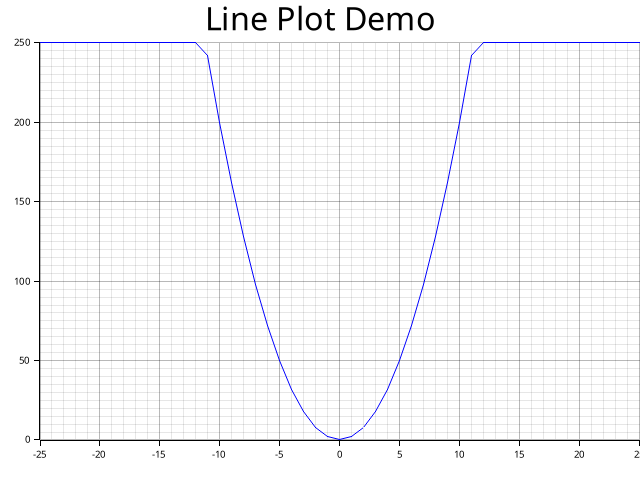
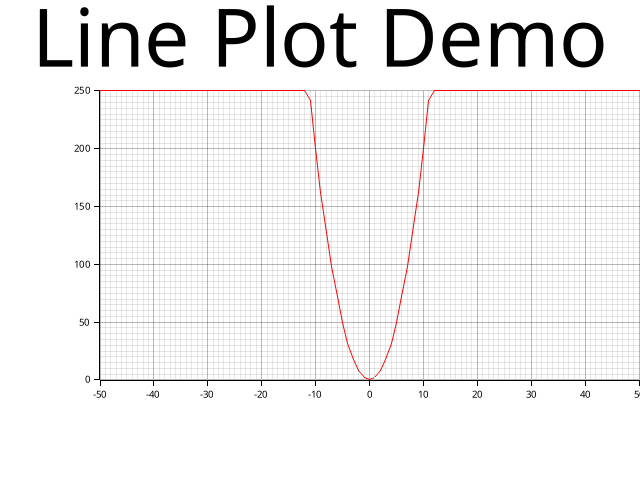
plotter return

Changed region(s): [[0.0312, 0.0, 1.0, 0.9688]]

diff --git a/projects/plotters/src/main.rs b/projects/plotters/src/main.rs
@@ -1,45 +1,18 @@
-use eframe::egui;
-//use plotters::prelude::*;
+use plotters::prelude::*;
 
-fn main() -> eframe::Result<()> {
-    eframe::run_native(
-        "plotters",
-        eframe::NativeOptions::default(),
-        Box::new(|cc| Box::new(PlottersApp::new(cc))),
-    )
-
-    /*
-    let root_area = BitMapBackend::new("./images/LinePlotDemo.png", (640, 480))
-      .into_drawing_area();
+fn main() {
+    let root_area = BitMapBackend::new("./images/LinePlotDemo.png", (640, 480)).into_drawing_area();
     root_area.fill(&WHITE).unwrap();
 
     let mut ctx = ChartBuilder::on(&root_area)
-      .set_label_area_size(LabelAreaPosition::Left, 40)
-      .set_label_area_size(LabelAreaPosition::Bottom, 40)
-      .caption("Line Plot Demo", ("sans-serif", 40))
-      .build_cartesian_2d(-25..25, 0..250)
-      .unwrap();
+        .set_label_area_size(LabelAreaPosition::Left, 100)
+        .set_label_area_size(LabelAreaPosition::Bottom, 100)
+        .caption("Line Plot Demo", ("sans-serif", 100))
+        .build_cartesian_2d(-50..50, 0..250)
+        .unwrap();
 
     ctx.configure_mesh().draw().unwrap();
 
-    ctx.draw_series(
-      LineSeries::new((-50..=50).map(|x| (x, x* 2*x)), &BLUE)
-    ).unwrap();
-    */
-}
-
-struct PlottersApp {}
-
-impl PlottersApp {
-    fn new(_cc: &eframe::CreationContext<'_>) -> Self {
-        PlottersApp {}
-    }
-}
-
-impl eframe::App for PlottersApp {
-    fn update(&mut self, ctx: &egui::Context, _frame: &mut eframe::Frame) {
-        egui::CentralPanel::default().show(ctx, |ui| {
-            ui.label(r#"Example Plotter"#);
-        });
-    }
+    ctx.draw_series(LineSeries::new((-50..=50).map(|x| (x, x * 2 * x)), &RED))
+        .unwrap();
 }
